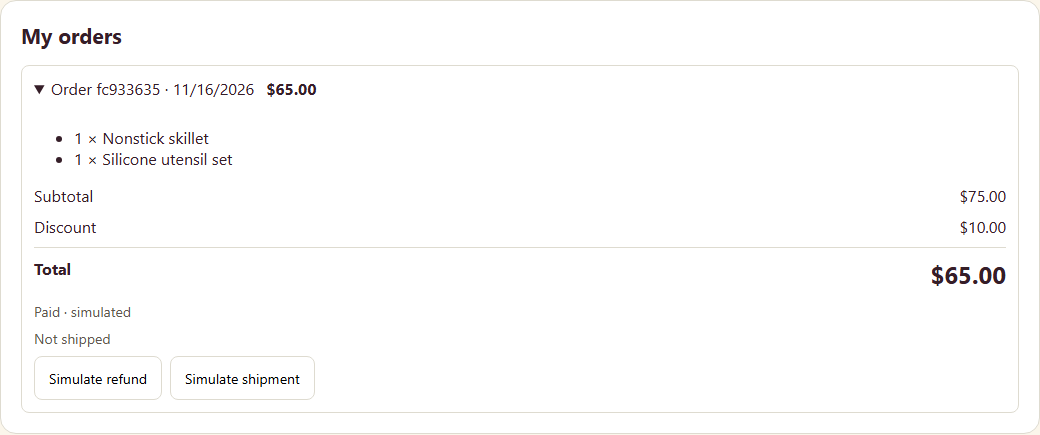
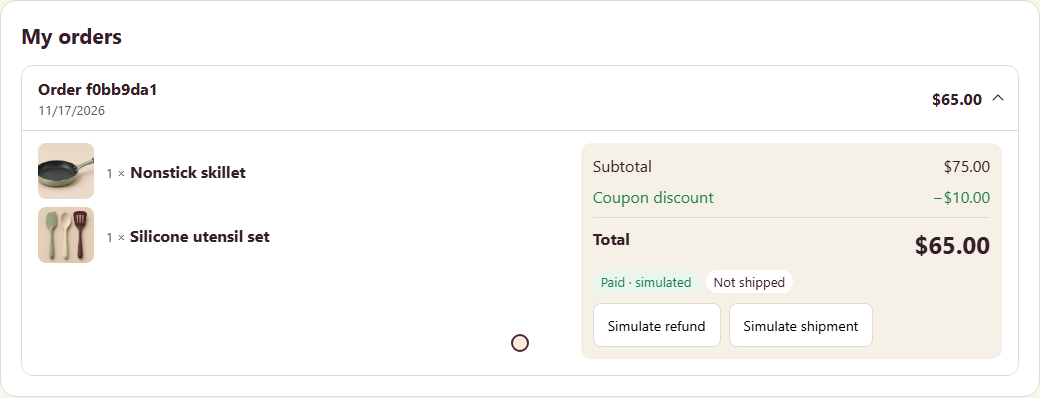
Refine order history cards and responsive catalog sizing

diff --git a/coupon-web/src/Shop.tsx b/coupon-web/src/Shop.tsx
@@ -142,6 +142,7 @@ export default function Shop({ session }: { session?: BrowserSession } = {}) {
   const [ordersLoading, setOrdersLoading] = useState(false);
   const [ordersError, setOrdersError] = useState(false);
   const [orderRevision, setOrderRevision] = useState(0);
+  const orderPhotos = new Map(products.map(product => [product.name, productImages[product.id]]));
   const [removeId, setRemoveId] = useState<string>();
   const [couponId, setCouponId] = useState(0);
   const [quote, setQuote] = useState<Quote>();
@@ -689,24 +690,45 @@ export default function Shop({ session }: { session?: BrowserSession } = {}) {
           <p>{orderPage === 0 ? 'You have no orders yet.' : 'There are no more orders.'}</p>}
         {!ordersLoading && !ordersError && orders.map(order => <details className="retail-order" key={order.orderId}>
           <summary>
-            <span>Order {order.orderId.slice(0, 8)} · {new Date(order.createdAt).toLocaleDateString()}</span>
+            <span className="retail-order-heading">
+              <b>Order {order.orderId.slice(0, 8)}</b>
+              <time dateTime={order.createdAt}>{new Date(order.createdAt).toLocaleDateString()}</time>
+            </span>
             <strong>{formatMoney(order.pricing.totalCents)}</strong>
           </summary>
-          <ul>{order.items.map(item => <li key={item.name}>{item.quantity} × {item.name}</li>)}</ul>
-          <dl className="shop-total">
-            <div><dt>Subtotal</dt><dd>{formatMoney(order.pricing.subtotalCents)}</dd></div>
-            <div><dt>Discount</dt><dd>{formatMoney(order.pricing.discountCents)}</dd></div>
-            <div><dt>Total</dt><dd>{formatMoney(order.pricing.totalCents)}</dd></div>
-          </dl>
-          {order.pricing.giftName && <p>Free gift · {order.pricing.giftName}</p>}
-          {order.paymentStatus !== 'DEMO' && <div className="shop-order-status">
-            <p>{order.paymentStatus === 'REFUNDED' ? 'Refunded · simulated' : 'Paid · simulated'}</p>
-            <p>{order.shippingStatus === 'SHIPPED' ? 'Shipped · simulated' : 'Not shipped'}</p>
-            {order.paymentStatus === 'PAID' && order.shippingStatus === 'UNSHIPPED' && <div className="shop-reminder-actions">
-              <button type="button" disabled={Boolean(orderAction)} onClick={() => void updateDemoOrder(order.orderId, 'refund')}>Simulate refund</button>
-              <button type="button" disabled={Boolean(orderAction)} onClick={() => void updateDemoOrder(order.orderId, 'ship')}>Simulate shipment</button>
-            </div>}
-          </div>}
+          <div className="retail-order-details">
+            <div>
+              <ul className="retail-order-items" aria-label="Items in the order">
+                {order.items.map(item => {
+                  const photo = orderPhotos.get(item.name);
+                  return <li key={item.name}>
+                    {photo && <img src={photo} alt="" width={56} height={56} loading="lazy" />}
+                    <span><small>{item.quantity} ×</small> <strong>{item.name}</strong></span>
+                  </li>;
+                })}
+              </ul>
+              {order.pricing.giftName && <p className="shop-gift">Free gift · {order.pricing.giftName}</p>}
+            </div>
+            <div className="retail-order-receipt">
+              <dl className="shop-total">
+                <div><dt>Subtotal</dt><dd>{formatMoney(order.pricing.subtotalCents)}</dd></div>
+                {order.pricing.discountCents > 0 && <div className="retail-order-discount">
+                  <dt>Coupon discount</dt><dd>−{formatMoney(order.pricing.discountCents)}</dd>
+                </div>}
+                <div><dt>Total</dt><dd>{formatMoney(order.pricing.totalCents)}</dd></div>
+              </dl>
+              {order.paymentStatus !== 'DEMO' && <>
+                <div className="retail-order-status">
+                  <span data-state={order.paymentStatus}>{order.paymentStatus === 'REFUNDED' ? 'Refunded · simulated' : 'Paid · simulated'}</span>
+                  <span data-state={order.shippingStatus}>{order.shippingStatus === 'SHIPPED' ? 'Shipped · simulated' : 'Not shipped'}</span>
+                </div>
+                {order.paymentStatus === 'PAID' && order.shippingStatus === 'UNSHIPPED' && <div className="shop-reminder-actions">
+                  <button type="button" disabled={Boolean(orderAction)} onClick={() => void updateDemoOrder(order.orderId, 'refund')}>Simulate refund</button>
+                  <button type="button" disabled={Boolean(orderAction)} onClick={() => void updateDemoOrder(order.orderId, 'ship')}>Simulate shipment</button>
+                </div>}
+              </>}
+            </div>
+          </div>
         </details>)}
         {userId !== null && (orderPage > 0 || orders.length === 20) && <div className="retail-order-pages">
           <button type="button" disabled={ordersLoading || orderPage === 0}

diff --git a/coupon-web/src/styles.css b/coupon-web/src/styles.css
@@ -695,7 +695,11 @@ body:has(.shop) {
   border-color: var(--accent);
   color: #fff;
 }
-.retail-products { display: grid; grid-template-columns: repeat(auto-fit, minmax(min(100%, 205px), 1fr)); gap: 12px; }
+.retail-products {
+  display: grid;
+  grid-template-columns: repeat(auto-fill, minmax(min(100%, 205px), 1fr));
+  gap: 12px;
+}
 .retail-product {
   display: grid;
   grid-template-rows: auto auto 1fr auto auto;
@@ -710,6 +714,7 @@ body:has(.shop) {
   display: block;
   width: 100%;
   aspect-ratio: 4 / 3;
+  max-height: 220px;
   object-fit: contain;
   border-radius: 8px;
   background: var(--shop-tint);
@@ -746,11 +751,98 @@ body:has(.shop) {
 .shop p.retail-photo-note { font-size: 12px; }
 .retail-product button, .retail-order summary { min-height: 44px; }
 .retail-cart-notice { padding: 10px 12px; background: #eaf4eb; border-radius: 8px; }
-.retail-order { border: 1px solid var(--line); border-radius: 8px; padding: 0 12px; }
-.retail-order summary { padding-block: 12px; cursor: pointer; overflow-wrap: anywhere; }
-.retail-order summary strong { margin-inline-start: 12px; color: var(--accent); }
-.retail-order[open] { padding-bottom: 12px; }
-.shop-order-status { display: grid; gap: 8px; margin-top: 12px; }
+.retail-order {
+  border: 1px solid var(--line);
+  border-radius: 12px;
+  background: var(--surface, #fff);
+}
+
+.retail-order > summary {
+  display: flex;
+  align-items: center;
+  gap: 12px;
+  padding: 12px 16px;
+  cursor: pointer;
+  list-style: none;
+  border-radius: 11px;
+}
+
+.retail-order > summary::-webkit-details-marker { display: none; }
+.retail-order > summary:hover { background: var(--shop-tint); }
+.retail-order > summary > strong { color: var(--accent); white-space: nowrap; }
+.retail-order > summary::after {
+  content: '';
+  width: 7px;
+  height: 7px;
+  border: solid currentColor;
+  border-width: 0 1.5px 1.5px 0;
+  transform: translateY(-2px) rotate(45deg);
+}
+.retail-order[open] > summary::after { transform: translateY(2px) rotate(225deg); }
+
+.retail-order-heading {
+  display: grid;
+  gap: 2px;
+  margin-inline-end: auto;
+  overflow-wrap: anywhere;
+}
+.retail-order-heading time, .retail-order-items small {
+  font-size: 0.82rem;
+  color: var(--muted);
+}
+
+.retail-order-details {
+  display: grid;
+  grid-template-columns: minmax(0, 1.25fr) minmax(0, 1fr);
+  gap: 16px;
+  padding: 12px 16px 16px;
+  border-top: 1px solid var(--line);
+}
+.retail-order-items {
+  display: grid;
+  gap: 8px;
+  margin: 0;
+  padding: 0;
+  list-style: none;
+}
+.retail-order-items li {
+  display: flex;
+  align-items: center;
+  gap: 12px;
+  min-height: 56px;
+  overflow-wrap: anywhere;
+}
+.retail-order-items img {
+  flex: none;
+  object-fit: cover;
+  border-radius: 8px;
+}
+
+.retail-order-receipt {
+  min-width: 0;
+  padding: 12px;
+  border-radius: 10px;
+  background: var(--shop-tint);
+}
+.retail-order-receipt .shop-total { margin: 0; }
+.retail-order-discount { color: var(--ok); }
+.retail-order-status {
+  display: flex;
+  flex-wrap: wrap;
+  gap: 6px;
+  margin-block: 10px;
+}
+.retail-order-status span {
+  padding: 3px 8px;
+  border-radius: 999px;
+  background: #fff;
+  color: var(--ink);
+  font-size: 0.82rem;
+}
+.retail-order-status span:is([data-state="PAID"], [data-state="SHIPPED"]) {
+  background: var(--ok-bg);
+  color: var(--ok);
+}
 
 .shop-product-name {
   display: grid;
@@ -911,6 +1003,8 @@ body:has(.shop) {
 }
 
 @media (prefers-reduced-motion: no-preference) {
+  .retail-order > summary::after { transition: transform 220ms ease; }
+  .retail-order[open] .retail-order-details { animation: order-details-in 340ms ease-out both; }
   .shop-nav a, .shop-coupon-picker summary, .shop-coupon-options button {
     transition: background-color 160ms ease, color 160ms ease;
   }
@@ -940,6 +1034,11 @@ body:has(.shop) {
   .shop .shop-claim-login:active { transform: scale(0.97); }
 }
 
+@keyframes order-details-in {
+  from { opacity: 0; transform: translateY(-9px); }
+  to { opacity: 1; transform: translateY(0); }
+}
+
 @keyframes shop-reveal {
   from { opacity: 0; transform: translateY(5px); }
   to { opacity: 1; transform: translateY(0); }
@@ -951,7 +1050,7 @@ body:has(.shop) {
 }
 
 @media (max-width: 700px) {
-  .workspace, .shop-layout {
+  .workspace, .shop-layout, .retail-order-details {
     grid-template-columns: 1fr;
   }
 }
